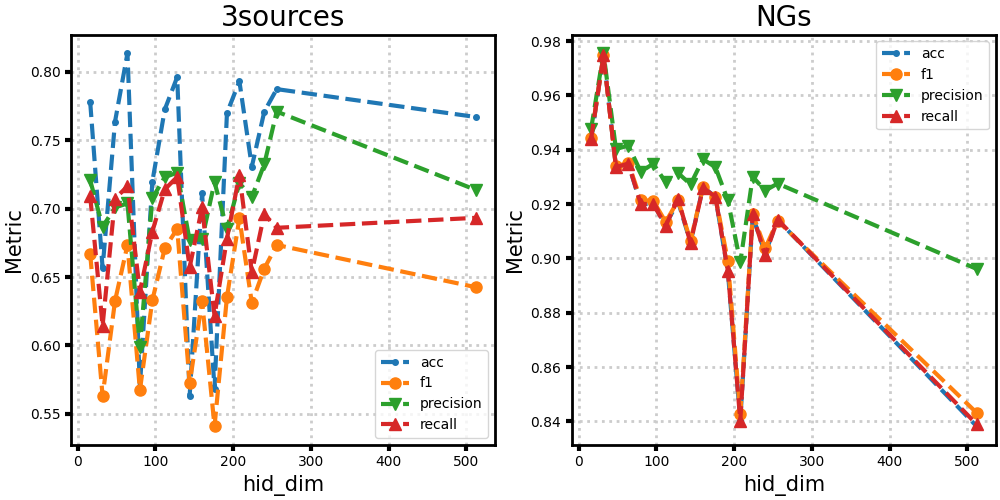
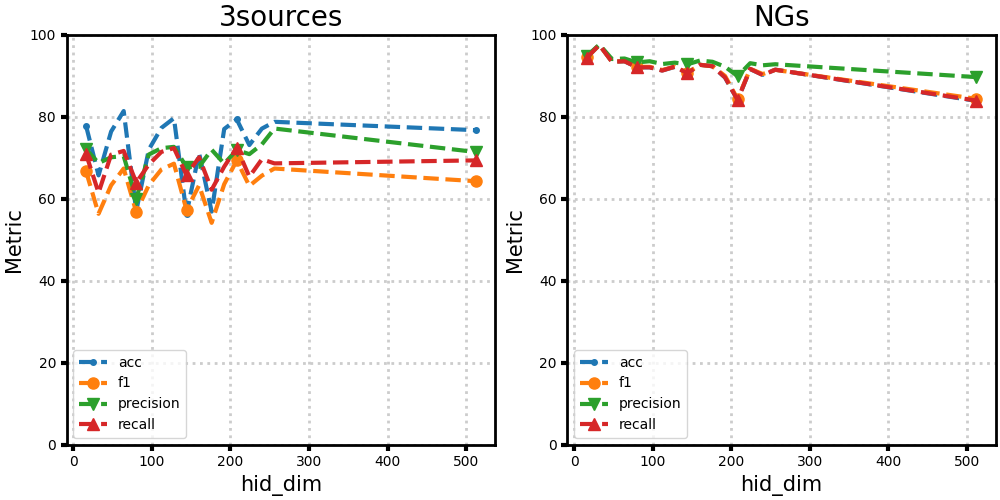
modify plot_parameters.py/set_ylim [0,100]

diff --git a/plot_parameters.py b/plot_parameters.py
@@ -41,10 +41,17 @@ def plot_dataset_to_df(dataset_to_df, layout=None, field_check='val_metric_', sh
         # reset x-axis-data and index
         filter_df.index = df.iloc[:,0]
         filter_df.reset_index(inplace=True)
-        ax = mplot.plot_lines_with_compare_data(ax=axes[i],x=filter_df,
+        # rescale y-axis-data to [0,100]
+        if 'metric' in field_check:
+            filter_df.iloc[:,1:] = filter_df.iloc[:,1:] * 100
+        ax: plt.Axes = mplot.plot_lines_with_compare_data(ax=axes[i],x=filter_df,
                                            xlabel=filter_df.columns[0],
                                            ylabel='Metric',
-                                           title=dataset_name)
+                                           title=dataset_name,
+                                           markevery=4)
+        # set y-lim to [0,100]
+        ax.set_ylim(0,100)
+        # set legend
         ax.legend()
     plt.savefig(f'./parameters/{filter_df.columns[0]}.png')
     if show:
